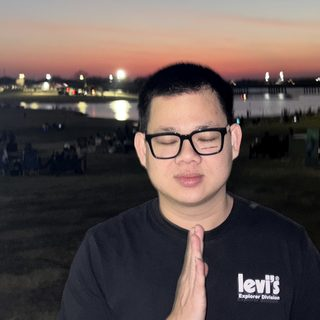
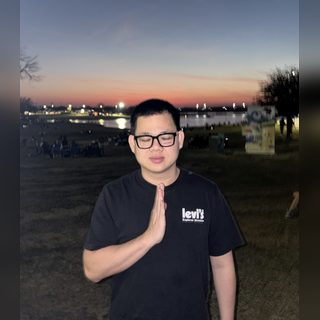
feat(portfolio): strengthen payments leadership positioning
- Reposition hero, about, experience, services, and contact around payments, platform, and applied AI depth
- Add payment lifecycle coverage for refunds, reversals, chargebacks, merchant setup, and provider integrations
- Regenerate the downloadable resume and update avatar crop to show more context

diff --git a/src/index.html b/src/index.html
@@ -6,14 +6,14 @@
     <meta http-equiv="X-UA-Compatible" content="IE=edge" />
     <meta name="viewport" content="width=device-width, initial-scale=1, viewport-fit=cover" />
 
-    <title>Hung Pham | Senior Platform & Applied AI Engineer</title>
+    <title>Hung Pham | Senior Platform, Payments &amp; Applied AI Engineer</title>
     <meta
       name="description"
-      content="Senior platform and applied AI engineer building Spring Boot tolling platforms, AI developer tools, release automation, and mobile products with AWS, Kubernetes, Flutter, Firebase, and MCP."
+      content="Senior platform, payments, and applied AI engineer building Spring Boot payment systems, tolling platforms, AI developer tools, release automation, and mobile products with AWS, Kubernetes, Firebase, and MCP."
     />
     <meta
       name="keywords"
-      content="Hung Pham, Senior Platform Engineer, Applied AI Engineer, Spring Boot Microservices, AI Developer Tools, MCP, Chrome Extension, BeHeart, AI Dev Coach, gig CLI, Beaus Tolling, AWS Kubernetes, Flutter Firebase, Distributed Systems Engineer"
+      content="Hung Pham, Senior Platform Engineer, Payments Engineer, Applied AI Engineer, Spring Boot Microservices, Payment Systems, Refunds, Chargebacks, Merchant Setup, Apple Pay, Google Pay, PayPal, AI Developer Tools, MCP, BeHeart, AI Dev Coach, gig CLI, Beaus Tolling, AWS Kubernetes, Flutter Firebase, Distributed Systems Engineer"
     />
     <meta name="author" content="Hung Pham" />
     <meta name="theme-color" content="#0d0b1c" />
@@ -25,18 +25,18 @@
 
     <meta property="og:type" content="website" />
     <meta property="og:url" content="https://hunpeo.web.app/" />
-    <meta property="og:title" content="Hung Pham | Senior Platform & Applied AI Engineer" />
+    <meta property="og:title" content="Hung Pham | Senior Platform, Payments &amp; Applied AI Engineer" />
     <meta
       property="og:description"
-      content="Senior platform and applied AI engineer building Spring Boot tolling platforms, AI developer tools, release automation, and mobile products with AWS, Kubernetes, Flutter, Firebase, and MCP."
+      content="Senior platform, payments, and applied AI engineer building Spring Boot payment systems, tolling platforms, AI developer tools, release automation, and mobile products with AWS, Kubernetes, Firebase, and MCP."
     />
     <meta property="og:image" content="https://hunpeo.web.app/assets/img/home-banner1.png" />
 
     <meta name="twitter:card" content="summary_large_image" />
-    <meta name="twitter:title" content="Hung Pham | Senior Platform & Applied AI Engineer" />
+    <meta name="twitter:title" content="Hung Pham | Senior Platform, Payments &amp; Applied AI Engineer" />
     <meta
       name="twitter:description"
-      content="Senior platform and applied AI engineer focused on AI engineering infrastructure, Spring Boot systems, developer tooling, and reliable delivery."
+      content="Senior platform, payments, and applied AI engineer focused on payment lifecycle systems, AI engineering infrastructure, Spring Boot systems, and reliable delivery."
     />
     <meta name="twitter:image" content="https://hunpeo.web.app/assets/img/home-banner1.png" />
 
@@ -45,7 +45,7 @@
         "@context": "https://schema.org",
         "@type": "Person",
         "name": "Hung Pham",
-        "jobTitle": "Senior Platform / Applied AI Engineer",
+        "jobTitle": "Senior Platform, Payments & Applied AI Engineer",
         "url": "https://hunpeo.web.app/",
         "image": "https://hunpeo.web.app/assets/img/avatar/hung-pham-avatar-640.jpg",
         "email": "mailto:phamhung.working@gmail.com",
@@ -57,6 +57,10 @@
           "Java",
           "Spring Boot",
           "Microservices",
+          "Payment Systems",
+          "Refunds",
+          "Chargebacks",
+          "Merchant Setup",
           "Applied AI",
           "MCP",
           "AWS",

diff --git a/src/app/main/work/work.component.ts b/src/app/main/work/work.component.ts
@@ -122,20 +122,21 @@ export class WorkComponent {
       id: 'beaus-tolling',
       badge: 'Tolling Backoffice Platform',
       title: 'Beaus Tolling Backoffice',
-      summary: 'A modular tolling operations monorepo for CRM, case management, fulfillment, configuration, reporting, payments, identity, and customer self-service.',
-      problem: 'Tolling operators need to modernize backoffice workflows without risky monolithic replacement programs, while still integrating with roadside, payments, DMV, reporting, and agency ecosystems.',
-      role: 'Platform architect and product engineer shaping the repository model, bounded contexts, service portfolio, UI portfolio, integration contracts, and strategic documentation pack.',
+      summary: 'A modular tolling operations monorepo for CRM, case management, fulfillment, configuration, reporting, payment operations, identity, and customer self-service.',
+      problem: 'Tolling operators need to modernize backoffice workflows without risky monolithic replacement programs, while still integrating with roadside, payments, refunds, disputes, DMV, reporting, and agency ecosystems.',
+      role: 'Platform architect and product engineer shaping the repository model, bounded contexts, payment lifecycle, service portfolio, UI portfolio, integration contracts, and strategic documentation pack.',
       solution: [
         'Split the platform into clear backoffice domains including account, vehicle, trip, case, payment, notification, DMV, batch, report, core, and SSO services.',
+        'Modeled payment operations beyond checkout: credit card, bank, check, wallet, PayPal, refund, reversal, chargeback, merchant setup, processor/bank integration, and audit-friendly state transitions.',
         'Defined Angular application surfaces for CRM, fulfillment, case management, configuration, reporting, and online customer workflows.',
         'Established OpenAPI and AsyncAPI contracts, Kafka integration patterns, PostgreSQL-per-service ownership, Redis sessions, and Kubernetes runtime direction.'
       ],
       impact: [
-        'Demonstrates staff-level system thinking across commercial modularity, operational reliability, integration freedom, and enterprise governance.',
+        'Demonstrates staff-level system thinking across payment domain complexity, commercial modularity, operational reliability, integration freedom, and enterprise governance.',
         'Turns earlier tolling demo work into a more credible product platform with architecture, operating model, roadmap, security, and release governance.',
         'Strengthens backend/platform positioning with a domain-rich enterprise system rather than isolated UI demos.'
       ],
-      stack: ['Java 21', 'Spring Boot', 'Angular 17', 'Kafka', 'PostgreSQL', 'Redis', 'Kubernetes', 'OpenAPI'],
+      stack: ['Java 21', 'Spring Boot', 'Payments', 'Refunds', 'Chargebacks', 'Angular 17', 'Kafka', 'PostgreSQL', 'Kubernetes', 'OpenAPI'],
       actions: [
         { label: 'Repository', href: 'https://github.com/phamhungptithcm/beaus-tolling', event: 'project_beaus_tolling_repo' }
       ]

diff --git a/src/app/main/experience/experience.component.ts b/src/app/main/experience/experience.component.ts
@@ -18,7 +18,7 @@ type Role = {
   styleUrls: ['./experience.component.scss']
 })
 export class ExperienceComponent {
-  resumeUrl = 'assets/Resume-Hung-Pham.pdf?v=20260413';
+  resumeUrl = 'assets/Resume-Hung-Pham.pdf?v=20260503';
 
   constructor(private readonly analytics: PortfolioAnalyticsService) {}
 
@@ -29,12 +29,13 @@ export class ExperienceComponent {
       location: 'Dallas, Texas',
       start: new Date(2022, 0, 1),
       achievements: [
-        'Led backend and platform delivery across payments and tolling workstreams, balancing product needs with reliability and security constraints.',
+        'Led backend and platform delivery across tolling and payment workstreams, including card, bank, check, Apple Pay, Google Pay, PayPal, refund, reversal, chargeback, merchant, processor, and bank integration flows.',
+        'Led and mentored teams up to 36 engineers through design systems, technical support, code review, API standards, release guardrails, and production-quality expectations.',
         'Reduced checkout latency by about 35% with caching, asynchronous flows, and cleaner service orchestration.',
-        'Set stronger API and release standards through reviews, CI guardrails, and production-quality expectations across teams.',
+        'Reduced incident resolution time by about 50% using AppDynamics, heap and thread analysis, stronger diagnostics, and post-mortem follow-through.',
         'Built analytics and observability patterns that improved incident diagnosis and helped product teams reason about system behavior.'
       ],
-      skills: ['Java', 'Spring Boot', 'Angular', 'Kafka', 'Elasticsearch', 'AWS', 'OAuth2', 'CI/CD']
+      skills: ['Java', 'Spring Boot', 'Payments', 'Chargebacks', 'Angular', 'Kafka', 'AWS', 'Mentorship', 'CI/CD']
     },
     {
       title: 'Senior Software Engineer',
@@ -43,11 +44,11 @@ export class ExperienceComponent {
       start: new Date(2021, 0, 1),
       end: new Date(2022, 0, 1),
       achievements: [
-        'Delivered payment and platform features with a focus on maintainable service design and safer release paths.',
-        'Implemented secure token flows, payment integrations, and cleaner DTO and API patterns that improved maintainability.',
-        'Introduced centralized logging and diagnostic improvements that shortened defect triage and support feedback loops.'
+        'Delivered payment and platform features with maintainable service design, secure token flows, provider integrations, refund/reversal handling, and safer release paths.',
+        'Improved DTO, API, and integration patterns so payment behavior was easier to test, support, and reason about across teams.',
+        'Introduced centralized logging, diagnostic improvements, mentoring, and review standards that shortened defect triage and support feedback loops.'
       ],
-      skills: ['Java', 'Spring', 'Payments', 'Logging', 'Testing', 'Clean Architecture']
+      skills: ['Java', 'Spring', 'Payments', 'Provider Integrations', 'Logging', 'Testing', 'Code Review']
     },
     {
       title: 'Software Engineer',

diff --git a/src/app/main/about/about.component.html b/src/app/main/about/about.component.html
@@ -6,9 +6,9 @@
 >
   <div class="section-heading">
     <h6>About</h6>
-    <h2 id="about-title">Senior backend, platform, and applied AI engineer with product sense.</h2>
+    <h2 id="about-title">Senior platform, payments, and applied AI engineer with product sense.</h2>
     <p class="section-copy">
-      I work best where architecture, operations, and delivery discipline matter as much as the feature itself.
+      I work best where architecture, payment domain depth, operations, and delivery discipline matter as much as the feature itself.
     </p>
   </div>
 
@@ -44,7 +44,7 @@
       </p>
 
       <p class="availability">
-        Open to Senior and Staff platform, backend, distributed systems, and applied AI roles.
+        Open to Senior and Staff platform, payments, backend, distributed systems, and applied AI roles.
       </p>
 
       <div class="action-row">
@@ -57,12 +57,12 @@
 
     <div class="narrative">
       <p class="lead">
-        I build backend platforms, AI-assisted developer tools, and product systems where uptime, latency, security, and workflow clarity have real business impact.
-        Across FPT Americas, transportation programs, and product work like BeHeart, AI Dev Coach, gig, BeFam, and Beaus Tolling, I have led service design, observability improvements, and delivery systems that make products easier to ship and easier to run.
+        I build backend platforms, payment workflows, AI-assisted developer tools, and product systems where uptime, latency, security, money movement, and workflow clarity have real business impact.
+        Across FPT Americas, transportation programs, and product work like BeHeart, AI Dev Coach, gig, BeFam, and Beaus Tolling, I have led service design, payment lifecycle modeling, observability improvements, and delivery systems that make products easier to ship and easier to run.
       </p>
 
       <p>
-        I create the most leverage when the work spans architecture, product, and operations: shaping the system, setting the reliability bar, mentoring engineers, and turning ambiguous requirements into something maintainable, testable, and supportable in production.
+        I create the most leverage when the work spans architecture, product, operations, and people: shaping systems, setting reliability bars, reviewing code, mentoring engineers, supporting production, and turning ambiguous requirements into something maintainable, testable, auditable, and supportable.
       </p>
 
       <div class="detail-grid">

diff --git a/src/app/main/about/about.component.ts b/src/app/main/about/about.component.ts
@@ -9,27 +9,29 @@ import { PortfolioAnalyticsService } from '../../core/analytics/portfolio-analyt
 })
 export class AboutComponent {
   name = 'Hung Pham';
-  title = 'Senior Platform / Applied AI Engineer';
+  title = 'Senior Platform, Payments & Applied AI Engineer';
   location = 'Dallas, Texas';
 
   avatarUrl = 'assets/img/avatar/hung-pham-avatar-640.jpg';
   avatarWebpSrcset = 'assets/img/avatar/hung-pham-avatar-320.webp 320w, assets/img/avatar/hung-pham-avatar-640.webp 640w';
   avatarJpegSrcset = 'assets/img/avatar/hung-pham-avatar-320.jpg 320w, assets/img/avatar/hung-pham-avatar-640.jpg 640w';
-  resumeUrl = 'assets/Resume-Hung-Pham.pdf?v=20260413';
+  resumeUrl = 'assets/Resume-Hung-Pham.pdf?v=20260503';
   linkedinUrl = 'https://www.linkedin.com/in/hunpham/';
   email = 'phamhung.working@gmail.com';
   websiteUrl = 'https://hunpeo.web.app/';
 
   leverageAreas = [
+    'Payment systems across card, bank, check, wallet, PayPal, refund, reversal, chargeback, merchant setup, and processor/bank integration flows.',
     'Service boundaries, API contracts, and event-driven integration.',
     'Applied AI workflows with repo memory, prompt quality guardrails, local privacy checks, and behavior-aware UX.',
     'Production observability, incident response, and post-mortem follow-through.',
     'Mobile and operator-facing products that turn backend complexity into usable workflows.',
-    'Cross-team delivery quality through reviews, standards, and mentorship.'
+    'Engineering leadership through design systems, technical support, code review, mentoring, and leading teams up to 36 engineers.'
   ];
 
   operatingPrinciples = [
     'Design for the support burden, not just the happy path.',
+    'Treat payment as a lifecycle: authorization, settlement, refunds, reversals, chargebacks, reconciliation, and auditability.',
     'Ship observability with the feature, not after the incident.',
     'Use AI where it improves workflow quality, not just output volume.',
     'Favor systems that teams can understand and own over clever abstractions.'
@@ -41,6 +43,9 @@ export class AboutComponent {
     'Microservices',
     'Applied AI',
     'MCP',
+    'Payment Systems',
+    'Refunds / Chargebacks',
+    'Merchant Integrations',
     'AWS',
     'Kubernetes',
     'Kafka',
@@ -51,7 +56,8 @@ export class AboutComponent {
     'Firebase',
     'Chrome Extensions',
     'TypeScript',
-    'Payments',
+    'Design Systems',
+    'Technical Leadership',
     'Observability'
   ];
 

diff --git a/src/app/main/services/services.component.ts b/src/app/main/services/services.component.ts
@@ -17,6 +17,18 @@ type Service = {
 export class ServicesComponent {
   services: Service[] = [
     {
+      id: 'payments',
+      kicker: 'Payment Systems',
+      title: 'Payment lifecycle engineering beyond simple checkout',
+      description: 'I work on payment systems as money-movement platforms, not just buttons that collect funds. The hard parts are state, risk, providers, exceptions, support, and auditability.',
+      details: [
+        'Credit card, bank, check, Apple Pay, Google Pay, PayPal, refund, reversal, undo, and chargeback flows.',
+        'Merchant setup, processor integration, bank-side behavior, provider handoffs, token flows, and failure states.',
+        'Support-ready workflows for customer service, reconciliation, dispute handling, and production diagnosis.'
+      ],
+      tags: ['Payments', 'Credit Card', 'Bank Payments', 'Digital Wallets', 'Refunds', 'Chargebacks']
+    },
+    {
       id: 'platforms',
       kicker: 'Platform Engineering',
       title: 'Cloud-native backends for complex operational workflows',
@@ -52,6 +64,18 @@ export class ServicesComponent {
         'Release automation, health checks, and documentation that keep independent products maintainable.'
       ],
       tags: ['Spring Boot', 'Kafka', 'Flutter', 'Firebase', 'CI/CD', 'Monitoring']
+    },
+    {
+      id: 'engineering-leadership',
+      kicker: 'Engineering Leadership',
+      title: 'Delivery standards for teams that need to move without breaking trust',
+      description: 'I create leverage through the engineering systems around the code: design systems, technical support, code review, mentoring, operating standards, and production feedback loops.',
+      details: [
+        'Led and mentored teams up to 36 engineers across delivery, review, support, and release responsibilities.',
+        'Built shared design-system and API patterns so teams ship consistent user experiences and service contracts.',
+        'Raised quality through code review, debugging support, incident follow-through, documentation, and repeatable delivery habits.'
+      ],
+      tags: ['Mentorship', 'Code Review', 'Design Systems', 'Technical Support', 'Standards', 'Delivery']
     }
   ];
 

diff --git a/src/app/main/home/home.component.ts b/src/app/main/home/home.component.ts
@@ -21,20 +21,21 @@ type QuickLink = {
   changeDetection: ChangeDetectionStrategy.OnPush
 })
 export class HomeComponent {
-  roleEyebrow = 'Senior Platform / Applied AI Engineer';
+  roleEyebrow = 'Senior Platform, Payments & Applied AI Engineer';
   email = 'phamhung.working@gmail.com';
-  resumeUrl = 'assets/Resume-Hung-Pham.pdf?v=20260413';
+  resumeUrl = 'assets/Resume-Hung-Pham.pdf?v=20260503';
 
   proofMetrics: ProofMetric[] = [
     { value: '8+ years', label: 'shipping production systems' },
-    { value: '~50%', label: 'faster incident resolution' },
-    { value: '6 repos', label: 'active product and platform portfolio' }
+    { value: '36', label: 'engineers led and mentored' },
+    { value: '~50%', label: 'faster incident resolution' }
   ];
 
   outcomes = [
+    'Led payment platform work beyond checkout: card, bank, check, wallet, PayPal, refund, reversal, chargeback, merchant, processor, and bank flows.',
+    'Led and mentored teams up to 36 engineers through design systems, technical support, code review, delivery standards, and production support.',
     'Built BeHeart and AI Dev Coach to improve AI-assisted engineering through persistent repo memory, prompt guardrails, and local-first workflows.',
-    'Built gig to turn ticket-to-release verification into deterministic evidence for QA, release managers, and engineering leads.',
-    'Shaped Beaus Tolling into separate backoffice and roadside platforms with bounded services, Kafka contracts, and operational documentation.'
+    'Shaped Beaus Tolling into separate backoffice and roadside platforms with bounded services, Kafka contracts, payment operations, and operational documentation.'
   ];
 
   quickLinks: QuickLink[] = [

diff --git a/src/app/main/experience/experience.component.html b/src/app/main/experience/experience.component.html
@@ -1,9 +1,9 @@
 <section class="experience container" aria-labelledby="exp-title" itemscope itemtype="https://schema.org/ItemList">
   <div class="section-heading">
     <h6>Experience</h6>
-    <h2 id="exp-title">Built across product delivery, payments, and transportation systems.</h2>
+    <h2 id="exp-title">Built across product delivery, payment systems, and transportation platforms.</h2>
     <p class="section-copy">
-      The strongest signal in my background is not one stack. It is repeated ownership across architecture, delivery quality, and production health.
+      The strongest signal in my background is not one stack. It is repeated ownership across architecture, payment lifecycle depth, delivery quality, technical support, and production health.
     </p>
   </div>
 
@@ -11,7 +11,7 @@
     <div class="experience-lead">
       <p class="lead-stat">8+ years</p>
       <p class="lead-copy">
-        Shipping backend platforms, distributed systems, payment workflows, and operator tooling with an emphasis on maintainability and supportability.
+        Shipping backend platforms, distributed systems, payment workflows, and operator tooling while leading engineers through reviews, design systems, support, and production standards.
       </p>
 
       <a class="resume-link" [href]="resumeUrl" download (click)="track('resume_download')">

diff --git a/src/app/main/contact/contact.component.ts b/src/app/main/contact/contact.component.ts
@@ -17,12 +17,12 @@ type ContactAction = {
 })
 export class ContactComponent {
   email = 'phamhung.working@gmail.com';
-  resumeUrl = 'assets/Resume-Hung-Pham.pdf?v=20260413';
+  resumeUrl = 'assets/Resume-Hung-Pham.pdf?v=20260503';
 
   talkingPoints = [
-    'Best fit: Senior or Staff platform, backend, applied AI, and developer tooling roles.',
-    'Strongest domains: cloud-native services, payments, developer tools, operations tooling, and release reliability.',
-    'Preferred signal in outreach: scope of ownership, team context, product stage, and technical problems to solve.'
+    'Best fit: Senior or Staff platform, payments, backend, applied AI, and developer tooling roles.',
+    'Strongest domains: payment lifecycle systems, cloud-native services, developer tools, operations tooling, and release reliability.',
+    'Preferred signal in outreach: scope of ownership, team context, product stage, domain complexity, and technical problems to solve.'
   ];
 
   actions: ContactAction[] = [

diff --git a/src/app/main/home/home.component.html b/src/app/main/home/home.component.html
@@ -4,12 +4,12 @@
       <p class="eyebrow">{{ roleEyebrow }}</p>
 
       <h1 id="home-title" class="hero-title">
-        I build reliable <span>Spring Boot</span> platforms and applied AI products.
+        I build reliable <span>Spring Boot</span>, payment, and applied AI platforms.
       </h1>
 
       <p class="hero-summary">
-        I ship cloud-native Java services, AI engineering tools, release automation, and mobile products across AWS, Kubernetes, Flutter, Firebase, and MCP.
-        My focus is reliability, useful guardrails, and delivery discipline so teams can move faster and users can trust the product.
+        I ship cloud-native Java systems across payments, tolling, applied AI, and mobile products.
+        My payment work goes beyond checkout: cards, bank payments, checks, Apple Pay, Google Pay, PayPal, refunds, reversals, chargebacks, merchant setup, processor integrations, and support paths that make money movement auditable.
       </p>
 
       <div class="btn-bar">

diff --git a/src/app/main/services/services.component.html b/src/app/main/services/services.component.html
@@ -1,9 +1,9 @@
 <section class="services container" aria-labelledby="services-title">
   <div class="section-heading">
     <h6>What I Lead</h6>
-    <h2 id="services-title">Platform engineering, applied AI products, and delivery systems.</h2>
+    <h2 id="services-title">Payment systems, platform engineering, applied AI, and delivery leadership.</h2>
     <p class="section-copy">
-      My value is not just shipping features. It is shaping the architecture, guardrails, and operating model that help products scale without turning into support debt.
+      My value is not just shipping features. It is shaping the architecture, payment lifecycle, guardrails, and operating model that help products scale without turning into support debt.
     </p>
   </div>
 

diff --git a/src/app/header/header.component.ts b/src/app/header/header.component.ts
@@ -12,7 +12,7 @@ type NavLink = { id: string; label: string };
 export class HeaderComponent implements AfterViewInit, OnDestroy {
   @Input() brandName = 'Hung Pham';
 
-  resumeUrl = 'assets/Resume-Hung-Pham.pdf?v=20260413';
+  resumeUrl = 'assets/Resume-Hung-Pham.pdf?v=20260503';
   sidebarOpen = false;
   currentSection = 'home';
 
